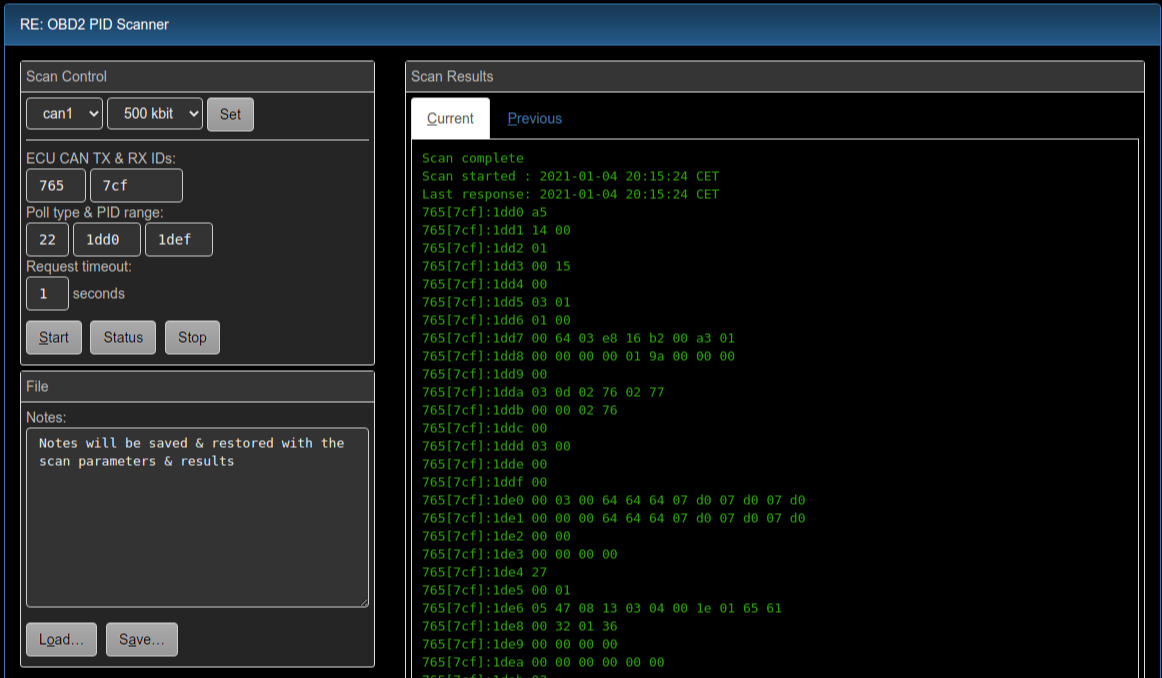
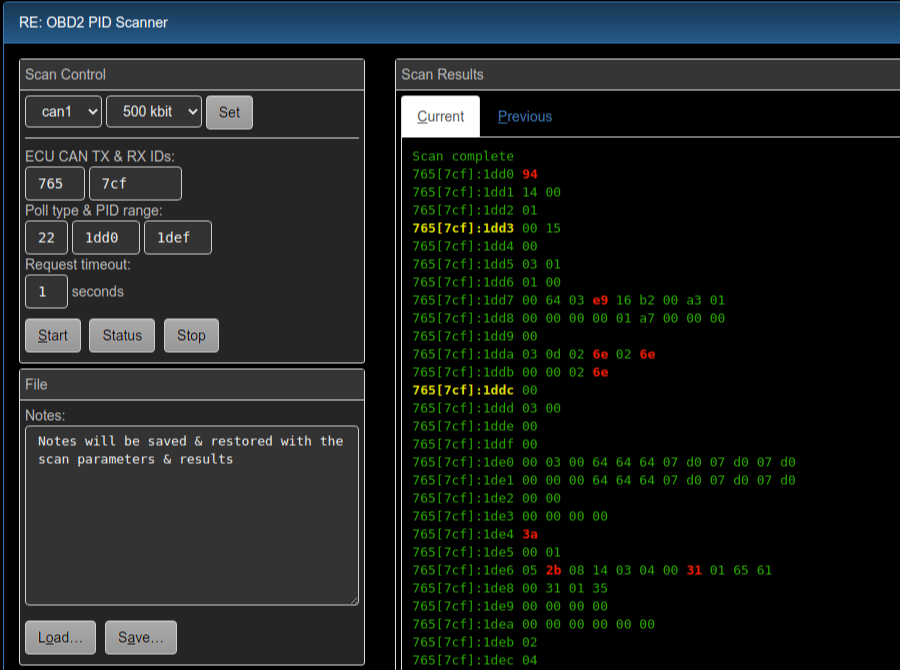
Plugin REPIDScan: highlight changes between scan results

Changed region(s): [[0.0, 0.0, 1.0, 1.0]]

diff --git a/plugin/repidscan/repidscan.htm b/plugin/repidscan/repidscan.htm
@@ -1,7 +1,11 @@
 <!--
   Web UI page plugin:
     Reverse Engineering OBD2 PID Scanner
-    Version 1.0  Michael Balzer <dexter@dexters-web.de>
+    Version 2.0  Michael Balzer <dexter@dexters-web.de>
+  
+  History:
+    - 2.0   Highlight differences between scan results
+    - 1.0   Initial release
   
   Dependencies:
     - OVMS firmware version 3.2.015-324 or higher
@@ -63,6 +67,20 @@
   height: 180px;
   font-size: 13px;
 }
+.scan-result b {
+  color: #00aa00;
+}
+.night .scan-result b {
+  color: #dddd00;
+}
+.scan-result u {
+  color: #aa0000;
+  font-weight: bold;
+  text-decoration: none;
+}
+.night .scan-result u {
+  color: #ee0000;
+}
 </style>
 
 <div class="filedialog" id="fileselect"/>
@@ -84,6 +102,7 @@
                 <button type="button" class="btn btn-default" data-target="#output-current" data-cmd="vehicle module NONE">
                   Set vehicle module <code>NONE</code>
                 </button>
+                <hr>
               </div>
 
               <div>
@@ -127,7 +146,7 @@
               
               <div class="action-menu">
                 <button type="button" class="btn btn-default action-start" accesskey="S"><u>S</u>tart</button>
-                <button type="button" class="btn btn-default action-status" data-target="#output-current" data-cmd="re obdii scan status">Status</button>
+                <button type="button" class="btn btn-default action-status" accesskey="U">Stat<u>u</u>s</button>
                 <button type="button" class="btn btn-default action-stop" data-target="#output-current" data-cmd="re obdii scan stop">Stop</button>
               </div>
               
@@ -164,12 +183,10 @@
           </ul>
           <div class="tab-content">
             <div id="tab-current" class="tab-pane section-vehicle active in">
-              <samp id="output-current" class="monitor autoselect"
-                data-updcmd="re obdii scan status" data-updcnt="1"
-                data-events="retools.pidscan.done" />
+              <samp id="output-current" class="monitor scan-result" />
             </div>
             <div id="tab-previous" class="tab-pane section-vehicle">
-              <samp id="output-previous" class="monitor autoselect" />
+              <samp id="output-previous" class="monitor scan-result" />
             </div>
           </div>
           
@@ -251,8 +268,48 @@
       else if (key.substr(0,7) == "output-")
         $('#'+key).html(data[key]);
     }
+    showDiff();
   }
 
+  // Get and split scan result (for showDiff):
+  function getResult(sel) {
+    var text = $(sel).text();
+    var lines = text.split('\n');
+    var info = [], pids = [];
+    lines.forEach(ln => ln && (ln.indexOf(']:') < 0 ? info : pids).push(ln));
+    var data = pids.map(el => el.split(' '));
+    return {
+      "info": info,
+      "data": data,
+    };
+  }
+  
+  // Get line & byte differences of r2 compared with r1 (for showDiff):
+  function getDiff(r1, r2) {
+    var lref = r2.data.map(e2 => r1.data.findIndex(e1 => e1[0] == e2[0]));
+    if (lref.findIndex(el => el != -1) == -1)
+      return r2.data;
+    return r2.data.map((e2, l2) => {
+      let l1 = lref[l2];
+      if (l1 < 0)
+        return e2.map((val, idx) => (idx == 0) ? '<b>'+val+'</b>' : val);
+      else
+        return e2.map((val, idx) => (val != r1.data[l1][idx]) ? '<u>'+val+'</u>' : val);
+    });
+  }
+  
+  // Highlight differences:
+  function showDiff() {
+    var r1 = getResult('#output-previous'),
+        r2 = getResult('#output-current');
+    var d1 = getDiff(r2, r1),
+        d2 = getDiff(r1, r2);
+    var h1 = r1.info.join('\n') + '\n' + d1.map(ln => ln.join(' ')).join('\n'),
+        h2 = r2.info.join('\n') + '\n' + d2.map(ln => ln.join(' ')).join('\n');
+    $('#output-previous').html(h1);
+    $('#output-current').html(h2);
+  }
+  
   // Start button:
   $('.action-start').on('click', function() {
     var data = getData();
@@ -273,6 +330,16 @@
         (data['input-timeout'] ? " -x" + data['input-timeout'] : "");
       loadcmd(cmd, "#output-current");
     }
+  });
+
+  // Show scan result:
+  $('#repidscan').on('msg:event', function(e, event) {
+    if (event == "retools.pidscan.done") {
+      loadcmd("re obdii scan status", "#output-current").then(showDiff);
+    }
+  });
+  $('.action-status').on('click', function() {
+    loadcmd("re obdii scan status", "#output-current").then(showDiff);
   });
 
   // Save:

diff --git a/plugin/repidscan/README.rst b/plugin/repidscan/README.rst
@@ -4,7 +4,9 @@ REPIDScan: OBD2 PID Scanner UI
 
 **Web UI for the OVMS3 RE toolkit's OBD2 PID scanner**
 
-Version 1.0 by Michael Balzer <dexter@dexters-web.de>
+Version 2.0 by Michael Balzer <dexter@dexters-web.de>
+
+**New in 2.0: Highlight differences between scan results**
 
 .. image:: repidscan-screenshot.png
 
@@ -62,6 +64,10 @@ a scan to start another run.
 Scan results will be shown automatically when the scan has been completed. Scanning a large range of 
 PIDs may take some time, to get intermediate results, click "Status". You can also start the scan, 
 do something else and return to the tool later.
+
+Differences between two scans are highlighted in both result tabs, with added PIDs being marked 
+green (yellow in night mode), and byte value changes being marked red. No highlighting is applied 
+if the scans don't share any PIDs.
 
 On the next scanner start, the previous results (if any) will be copied to the "Previous" tab. You 
 can switch tabs by the mouse or keyboard to compare them and look for differences, e.g. after having 
